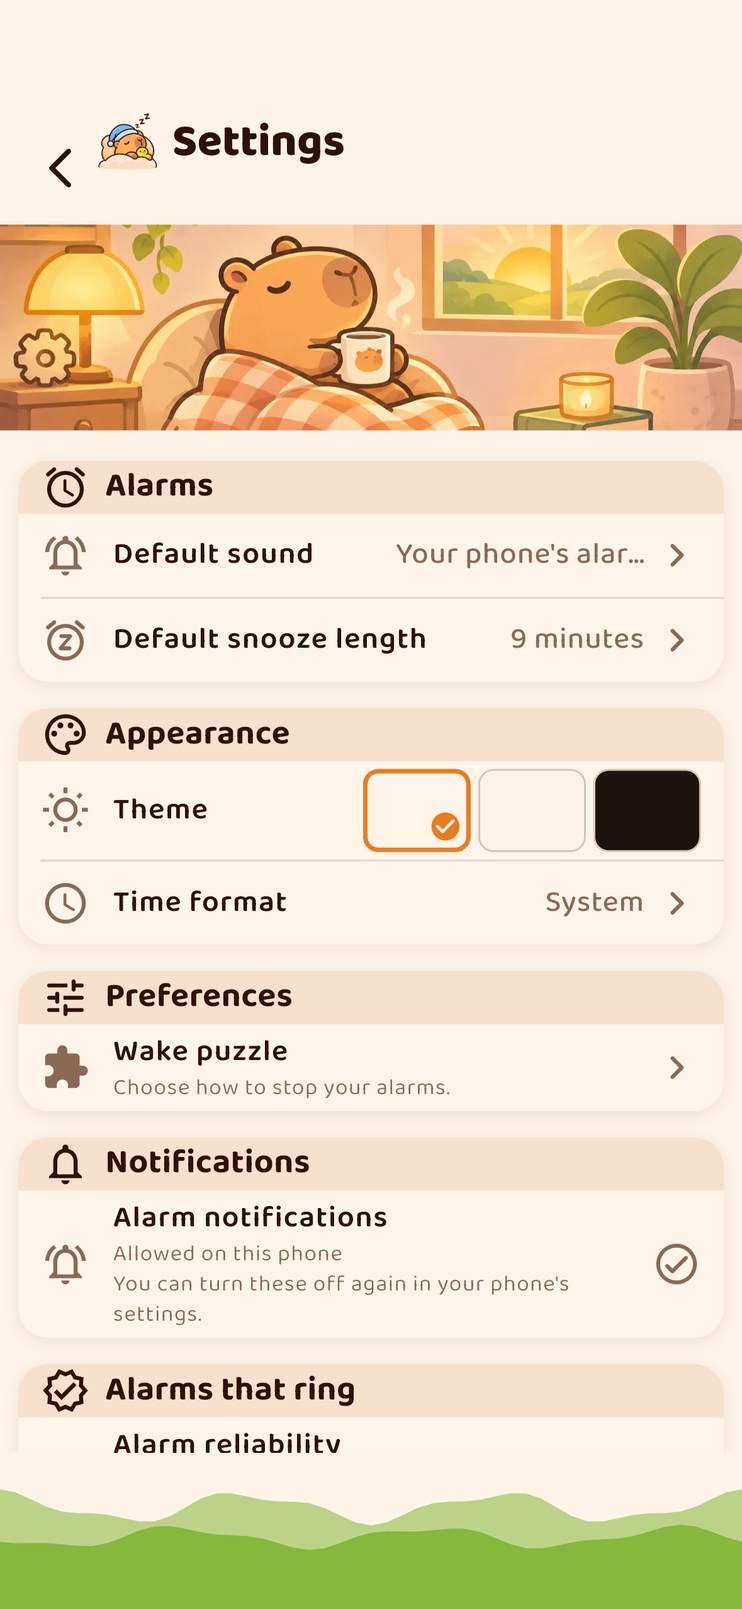
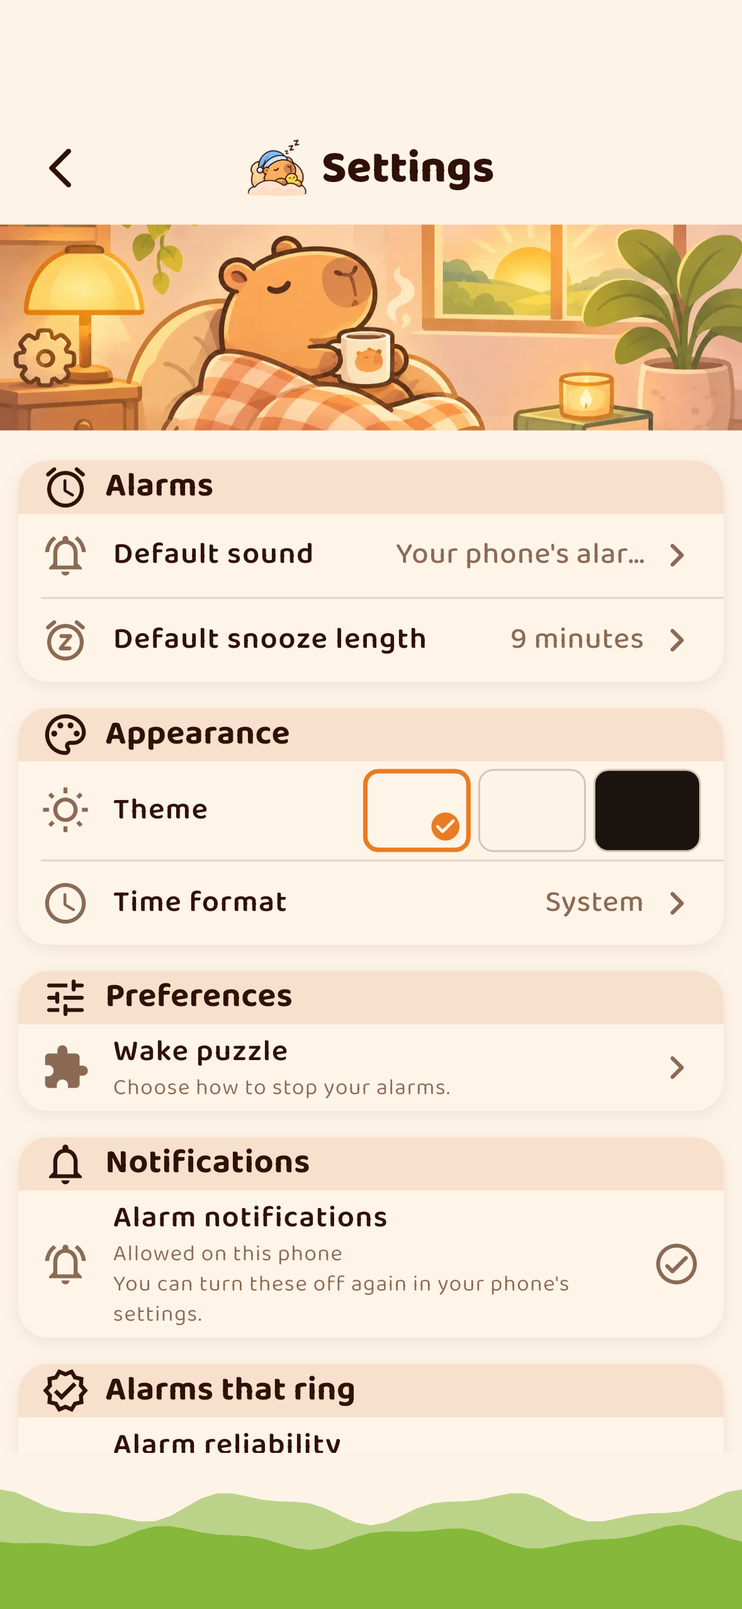
fix: phase 12 - catch sends Capy clear, no first-run flicker, centred header
A catch now lands the capybara two or more steps from where it was caught.
Run frames swap inside one Image element with gaplessPlayback and the game
art is pre-cached, so frames no longer flash blank while decoding. The
pushed-route header centres its title on the back button's line.

Changed region(s): [[0.2443, 0.0618, 0.6718, 0.1236], [0.1221, 0.0618, 0.2137, 0.1236]]

diff --git a/lib/features/settings/settings_header.dart b/lib/features/settings/settings_header.dart
@@ -26,40 +26,42 @@ class SettingsHeader extends StatelessWidget {
         height: height,
         child: Stack(
           children: [
-            // Inset past the back control on both sides, so a long title in
-            // any of the ten locales stays centred and never overlaps it.
+            // Centred on the back control's line, inset past it on both sides
+            // so a long title in any locale never overlaps it.
             Padding(
               padding: const EdgeInsetsDirectional.symmetric(
                 horizontal: CapyToggle.minTapTarget + CapySpacing.sm,
               ),
-              child: Row(
-                mainAxisSize: MainAxisSize.min,
-                mainAxisAlignment: MainAxisAlignment.center,
-                children: [
-                  ExcludeSemantics(
-                    child: Image.asset(
-                      CapyArt.byId('mascot.sleeping').path,
-                      height: CapyIconSize.wordmark,
-                      fit: BoxFit.contain,
+              child: Center(
+                child: Row(
+                  mainAxisSize: MainAxisSize.min,
+                  mainAxisAlignment: MainAxisAlignment.center,
+                  children: [
+                    ExcludeSemantics(
+                      child: Image.asset(
+                        CapyArt.byId('mascot.sleeping').path,
+                        height: CapyIconSize.wordmark,
+                        fit: BoxFit.contain,
+                      ),
                     ),
-                  ),
-                  const SizedBox(width: CapySpacing.sm),
-                  Flexible(
-                    child: Semantics(
-                      header: true,
-                      child: Text(
-                        title,
-                        maxLines: 1,
-                        overflow: TextOverflow.fade,
-                        softWrap: false,
-                        style: theme.textTheme.headlineSmall?.copyWith(
-                          color: ink,
-                          fontWeight: FontWeight.w800,
+                    const SizedBox(width: CapySpacing.sm),
+                    Flexible(
+                      child: Semantics(
+                        header: true,
+                        child: Text(
+                          title,
+                          maxLines: 1,
+                          overflow: TextOverflow.fade,
+                          softWrap: false,
+                          style: theme.textTheme.headlineSmall?.copyWith(
+                            color: ink,
+                            fontWeight: FontWeight.w800,
+                          ),
                         ),
                       ),
                     ),
-                  ),
-                ],
+                  ],
+                ),
               ),
             ),
             PositionedDirectional(

diff --git a/lib/core/games/catch_the_capy.dart b/lib/core/games/catch_the_capy.dart
@@ -64,17 +64,16 @@ class CatchTheCapyRound {
     struggleCount: misses,
   );
 
-  /// The capybara is caught and moves to a different spot. A no-op once the
-  /// goal is reached, so a double tap cannot count twice.
+  /// Caught: it counts, and the capybara bolts clear of the catch. A no-op
+  /// once complete, so a double tap cannot count twice.
   CatchTheCapyRound catchCapy() {
     if (isComplete) return this;
-    final draw = math.Random(_seed).nextInt(spotCount - 1);
     return CatchTheCapyRound._(
       PuzzleRound.advanceSeed(_seed),
       target: target,
       caught: caught + 1,
       misses: misses,
-      spot: draw >= spot ? draw + 1 : draw,
+      spot: _spotAwayFrom(column, row),
     );
   }
 
@@ -91,10 +90,24 @@ class CatchTheCapyRound {
     );
   }
 
-  /// The capybara bolts from a tap at ([column], [row]) to one of the spots
-  /// farthest from it; ties are broken by the seed.
+  /// The capybara bolts from a missed tap at ([column], [row]) to a spot
+  /// farthest from it.
   CatchTheCapyRound fleeFrom({required int column, required int row}) {
     if (isComplete) return this;
+    return CatchTheCapyRound._(
+      PuzzleRound.advanceSeed(_seed),
+      target: target,
+      caught: caught,
+      misses: misses,
+      spot: _spotAwayFrom(column, row, farthestOnly: true),
+    );
+  }
+
+  /// Squared distance a landing spot keeps from the danger: two steps, or the
+  /// farthest there is when nothing is that far (from the centre).
+  static const _clearDistance = 4;
+
+  int _spotAwayFrom(int column, int row, {bool farthestOnly = false}) {
     int distance(int s) {
       final dc = s % columns - column;
       final dr = s ~/ columns - row;
@@ -106,17 +119,12 @@ class CatchTheCapyRound {
         if (s != spot) s,
     ];
     final farthest = candidates.map(distance).reduce(math.max);
-    final best = [
+    final floor = farthestOnly ? farthest : math.min(_clearDistance, farthest);
+    final clear = [
       for (final s in candidates)
-        if (distance(s) == farthest) s,
+        if (distance(s) >= floor) s,
     ];
-    return CatchTheCapyRound._(
-      PuzzleRound.advanceSeed(_seed),
-      target: target,
-      caught: caught,
-      misses: misses,
-      spot: best[math.Random(_seed).nextInt(best.length)],
-    );
+    return clear[math.Random(_seed).nextInt(clear.length)];
   }
 
   CatchTheCapyRound miss() {

diff --git a/test/features/settings/settings_header_test.dart b/test/features/settings/settings_header_test.dart
@@ -1,0 +1,62 @@
+import 'package:capywake/features/settings/settings_header.dart';
+import 'package:capywake/l10n/generated/app_localizations.dart';
+import 'package:flutter/material.dart';
+import 'package:flutter_test/flutter_test.dart';
+
+Future<void> _pump(WidgetTester tester, String title, {Locale? locale}) async {
+  tester.view.physicalSize = const Size(393, 852) * 3;
+  tester.view.devicePixelRatio = 3;
+  addTearDown(tester.view.reset);
+  await tester.pumpWidget(
+    MaterialApp(
+      locale: locale,
+      localizationsDelegates: AppLocalizations.localizationsDelegates,
+      supportedLocales: AppLocalizations.supportedLocales,
+      home: Scaffold(
+        body: Navigator(
+          onGenerateRoute: (_) => MaterialPageRoute<void>(
+            builder: (_) => Scaffold(body: SettingsHeader(title: title)),
+          ),
+        ),
+      ),
+    ),
+  );
+  await tester.pumpAndSettle();
+}
+
+Rect _row(WidgetTester tester) => tester.getRect(
+  find.descendant(of: find.byType(SettingsHeader), matching: find.byType(Row)),
+);
+
+Rect _back(WidgetTester tester) => tester.getRect(
+  find.descendant(
+    of: find.byType(SettingsHeader),
+    matching: find.byType(Icon),
+  ),
+);
+
+void main() {
+  testWidgets('the title is centred across the screen', (tester) async {
+    await _pump(tester, 'Catch the Capy');
+    expect(_row(tester).center.dx, closeTo(393 / 2, 0.5));
+  });
+
+  testWidgets("the title sits on the back control's line", (tester) async {
+    await _pump(tester, 'Catch the Capy');
+    expect(_row(tester).center.dy, closeTo(_back(tester).center.dy, 0.5));
+  });
+
+  testWidgets('a long title never runs under the back control', (
+    tester,
+  ) async {
+    await _pump(tester, 'Erinnerung an das Zuverlässigkeitsprotokoll');
+    expect(_row(tester).left, greaterThan(_back(tester).right));
+    expect(tester.takeException(), isNull);
+  });
+
+  testWidgets('in RTL the title stays centred and clear', (tester) async {
+    await _pump(tester, 'إعدادات', locale: const Locale('ar'));
+    expect(_row(tester).center.dx, closeTo(393 / 2, 0.5));
+    expect(_row(tester).right, lessThan(_back(tester).left));
+  });
+}

diff --git a/test/features/games/catch_the_capy_view_test.dart b/test/features/games/catch_the_capy_view_test.dart
@@ -338,7 +338,12 @@ void main() {
     expect((after - tap.dx).abs(), greaterThan(field.width / 2));
   });
 
-  Finder frame(int i) => find.byKey(ValueKey('catch-the-capy-frame-$i'));
+  Finder frame(int i) => find.byWidgetPredicate(
+    (w) =>
+        w is Image &&
+        w.image is AssetImage &&
+        (w.image as AssetImage).assetName == CapyArt.runFrames[i].path,
+  );
 
   testWidgets('the legs run through the whole cycle during a run', (
     tester,
@@ -424,6 +429,44 @@ void main() {
       expect(rect.left, greaterThanOrEqualTo(field.left - 0.5));
       expect(rect.right, lessThanOrEqualTo(field.right + 0.5));
       await tester.pumpAndSettle();
+    }
+  });
+
+  testWidgets('frames swap inside one Image, held while the next decodes', (
+    tester,
+  ) async {
+    await _pump(tester);
+    final before = tester.element(frame(0));
+    await tester.tap(_target);
+    await tester.pump();
+    await tester.pump(CatchTheCapyRound.runFor(PuzzleDifficulty.easy) ~/ 5);
+
+    final image = find.descendant(of: _target, matching: find.byType(Image));
+    expect(image, findsOneWidget);
+    expect(tester.widget<Image>(image).gaplessPlayback, isTrue);
+    expect(tester.element(image), isNot(before), reason: 'a new run, new key');
+    final during = tester.element(image);
+    await tester.pump(CatchTheCapyRound.runFor(PuzzleDifficulty.easy) ~/ 5);
+    expect(
+      tester.element(image),
+      same(during),
+      reason: 'a frame change must not rebuild the Image element',
+    );
+  });
+
+  testWidgets('a catch carries the capybara clear of where it was caught', (
+    tester,
+  ) async {
+    await _pump(tester, difficulty: PuzzleDifficulty.hard);
+    for (var i = 0; i < 5; i++) {
+      final caughtAt = tester.getCenter(_target);
+      await tester.tap(_target);
+      await tester.pumpAndSettle();
+      final now = tester.getCenter(_target);
+      expect(
+        (now - caughtAt).distance,
+        greaterThan(CatchTheCapyView.capyWidth),
+      );
     }
   });
 }

diff --git a/lib/features/games/catch_the_capy_view.dart b/lib/features/games/catch_the_capy_view.dart
@@ -74,9 +74,22 @@ class _CatchTheCapyViewState extends State<CatchTheCapyView> {
   bool get _moves =>
       !widget.reduceMotion && !MediaQuery.accessibleNavigationOf(context);
 
+  bool _precached = false;
+
   @override
   void didChangeDependencies() {
     super.didChangeDependencies();
+    if (!_precached) {
+      _precached = true;
+      for (final asset in [
+        ...CapyArt.runFrames,
+        ...CapyArt.dustFrames,
+        CapyArt.byId('game.paw'),
+        CapyArt.byId('game.meadow'),
+      ]) {
+        unawaited(precacheImage(AssetImage(asset.path), context));
+      }
+    }
     _scheduleWander();
   }
 
@@ -285,9 +298,10 @@ class _Runner extends StatelessWidget {
     );
   }
 
+  // One Image element across frames, so `gaplessPlayback` holds the last
+  // frame while the next decodes instead of flashing blank.
   Widget _frame(int index) => Image.asset(
     CapyArt.runFrames[index].path,
-    key: ValueKey('catch-the-capy-frame-$index'),
     fit: BoxFit.contain,
     alignment: Alignment.bottomCenter,
     gaplessPlayback: true,

diff --git a/test/core/games/catch_the_capy_test.dart b/test/core/games/catch_the_capy_test.dart
@@ -115,4 +115,27 @@ void main() {
       const Duration(seconds: 1),
     );
   });
+
+  test('once caught it lands clear of where it was caught', () {
+    for (var seed = 0; seed < 300; seed++) {
+      final round = _start(seed: seed, difficulty: PuzzleDifficulty.hard);
+      final next = round.catchCapy();
+      final dc = next.column - round.column;
+      final dr = next.row - round.row;
+      final fromCentre = round.column == 1 && round.row == 1;
+      expect(
+        dc * dc + dr * dr,
+        greaterThanOrEqualTo(fromCentre ? 2 : 4),
+        reason: 'seed $seed: ${round.spot} -> ${next.spot}',
+      );
+    }
+  });
+
+  test('where it lands after a catch still varies', () {
+    final landings = {
+      for (var seed = 0; seed < 300; seed++)
+        _start(seed: seed).catchCapy().spot,
+    };
+    expect(landings.length, greaterThan(4));
+  });
 }

diff --git a/ai-orchestration/PHASE_TRACKER.md b/ai-orchestration/PHASE_TRACKER.md
@@ -121,7 +121,7 @@ Per-phase commit `feat: complete phase <id> - <name>`, then
 | 09 | Onboarding | done | `docs/phases/PHASE_09_PLAN.md` | `74496a0` | 2026-11-17 | **The phase whose name promised a permission flow that was already built, and whose one real defect no test could see.** "Just-in-time permissions" was shipped in **Phase 07** — the prompt fires at first alarm enable, confirmed on device this phase. The legacy onboarding (`../capywake`, read-only) asks for **no** permission: it is a three-step preferences flow (welcome → puzzle → strictness) that writes `hasCompletedOnboarding`. What was actually missing: **`OnboardingStatus.needsOnboarding` was ported and tested but wired to nothing, and `hasCompletedOnboarding` had no writer in `lib/`** — a fresh install opened on an empty Home with no greeting. This phase added the `/onboarding` route (outside the shell), a push-only redirect, the welcome, and `completeOnboarding()`. **There is NO onboarding mockup**: the five primary screens contain none, and the `screens/alternative/onboarding_*` files are two exploratory boards (re-handed under five names) at 887×1774/852×1846 device-bezel geometry drawing the rejected 4-tab/Games nav — superseded. **Tier A binds nothing**; held to tokens, the tap floor, RTL, large-text reflow and no-overpromise (`docs/visual/_evidence/onboarding_boards.md`, `docs/visual/onboarding/`). **The central finding (SR1 H1): the CTA bounced to Home on the iPhone 18 Pro while every test passed.** The redirect had a pull branch (`atOnboarding && !needed → Home`); `completeOnboarding()` fired the `refreshListenable` mid-tap and the pull beat the CTA's own `go(/alarms/new)` — the fake async clock in widget tests ordered them the other way, so the buggy redirect passed all tests. Fixed to push-only; **pinned by a new test that fails against the buggy version** (Phase 05's rule + Phase 06's, together). Re-confirmed on device: CTA → Add Alarm → Save → the existing prompt, with honest degrade copy. **SR2 found an error-state crash** on the hot path (`alarms.requireValue` would throw if the alarms stream errored) — the provider now yields a value only when both streams have data. **Sleep-boundary still NOT discharged** — no `package:health`, stated explicitly; now unbuilt across 07, 08 and 09. Full-project also found the ported `OnboardingStatus` dartdoc describes a grandfathering path that **cannot occur** in a no-users greenfield rebuild (the `?? true` mapper branch is unreachable; `toJson` always writes the key), and that the baseline's `grep "Phase [0-9]" lib/ = 0` is scoped to hand-written Dart (bare it is 2 — a pre-existing ARB description). **1,513 tests** (+20 against a registered +18–28), analyze clean incl. infos, lib 97.84% / core 99.61% / data 88.95% / **`lib/features/onboarding` 100.00%**, **438 ARB keys × 10 locales** (+1, as registered). Comment baseline **+0** (113). 21 findings across four passes, all applied, none deferred |
 | 10 | Puzzle chooser and the ten existing puzzle types | done | `docs/phases/PHASE_10_PLAN.md` | `b916607` | 2026-11-17 | **The phase that wired settings persisted since Phase 02 but written by no UI — every alarm used `PuzzleSettings.defaults()` forever.** Three surfaces, owner-confirmed: the chooser (pushed from Settings → Preferences), the two onboarding steps (welcome became a 3-step flow), and the per-alarm Tap/Puzzle dismiss section. **The owner supplied mockups mid-phase** (`CapyWake_Puzzle_Chooser_Onboarding_Handoff`) — but they are 378×1161-class storyboard crops, not 851×1847 native geometry, so **Tier A binds nothing** (measured, the handoff README says so), as Phases 06/09. **Three domain conflicts the art carried, domain won each:** escape strictness is 2-value (`confirm`/`confirmAndHold`, no "off") not the mockup's 3-with-"Never" — rendering "Never" would imply a lockout the safety rule forbids (owner: keep domain, honest labels); "After 1 min" split back into escape + the separate tolerance field; six sample cards → ten real types, "Shake" dropped (not a `DismissMethod`). **The ARB estimate round-tripped the restate discipline both ways:** plan said "possibly zero", pre-review H1 corrected to +10–14, measurement settled at **+2** — nearly the whole vocabulary (chooser, onboarding, per-alarm) was already ported in 10 locales. **SR1 H1: the dismiss segment misrepresented a `holdToDismiss` alarm** — showed Tap selected while storing Hold (latent; no UI creates Hold today, but the enum, mapper and summary all carry it); now names an unrepresentable method read-only, pinned by a seeded test. **SR2 H1: the onboarding completion path swallowed a write failure**, stranding the user on a dead button with the ported `onboardingSaveError` unused — Phase 09's SR2 one layer over (write side); now wrapped, holds position, shows the error, pinned by a throwing-repo test. **Full-project: three playable-practice onboarding strings stay unused on purpose** (a playable demo is a games-phase concern) — stated outright, Phase 09's ambiguity lesson applied. **Device-verified on the iPhone 18 Pro (Phase 09's rule): the stepped onboarding CTA lands on Add Alarm, not Home — the redirect race does NOT recur.** **1,547 tests** (+34 against a registered +45–75 — restated: the puzzle domain was already fully tested), analyze clean incl. infos, lib 97.93% / core 99.61% / data 88.95% / features/puzzle 99.30% / features/onboarding 100%, **440 ARB keys** (+2). Comment baseline **+0** (113); 9 new files, all trimmed by hand. 15 findings across four passes, all applied, none deferred |
 | 11 | Game foundation | done | `docs/phases/PHASE_11_PLAN.md` | `4d9750b` | 2026-11-17 | **What a "game" is — the contract the ten games (12-17) slot into, built with no specific game and no new visible surface.** The one design call, settled in the plan: **a game is not a fourth `DismissMethod`** (that would bump the Drift mapper and ripple through 1,547 tests for a product that does not exist) — it is a puzzle-parallel challenge surface in the same `RingingScreen.puzzleSlot`. `GameChallenge` (`lib/core/games/`, pure Dart): goal in steps, `isComplete`, `struggleCount`, `escapeVisibilityFor` reusing the **enum** `PuzzleEscapeVisibility` but **not** `PuzzleEasingState`'s wrong-answer arithmetic — a game has no "wrong answer", it has missed taps (pre-review H1). The widget contract (`game_ringing_view.dart`): `onProgress`/`onCompleted`, `reduceMotion` threaded from `MediaQuery.disableAnimations` via `GameRingingSlot`; **the escape stays owned by `RingingScreen` — a game has no seam to hide or gate it** (H2), proven by a test-only conformer mounted in the real screen whose escape is reachable regardless of game state. **The foundation stayed headless** (H3): no onboarding demo, no new route — "Do not implement future phases"; the three unused onboarding strings stay unused for a games phase. **Motion fallback is call-site-required** (H4) and **SR1 closed the hole: a motion game's fallback could itself require motion** — now asserted `!fallback.requiresMotion`, so a motion game with no *usable* non-motion path cannot be built (the a11y rule, for Phase 15's two motion games). SR1 also bounded the goal (`target > 0`, else the alarm dismisses with zero play). **SR2: the escape policy source was implicit** — a test now proves a game and a puzzle offer the escape identically against the user's `toleratedWrongAnswers`, so a Phase 12 game that diverges fails; plus a mutation check (suppress completion → dismiss test fails, not a guard on trust). `GameCatalogue` grew **4 → 10** (zero `playable`) with an explicit **`homeRail` subset of four** so Home does not regress to ten tiles (pre-review M2/M3); **ARB +6** game name keys (restated in the pre-review from the plan's +0 — the catalogue needs them, the demo surface does not), six tile gaps **G23-G28**. **Full-project: the pre-review's own L1 was wrong** — it called Home's "See All" games action a dangling control with "no destination"; `PHASE_03_PLAN.md:202` records it as deliberate (See All → the Stats Games segment, both tabs), still coherent at ten games. Corrected, no change. **Tier A binds nothing** — the game posters are bezel-wrapped storyboards, not native geometry (as 06/09/10). **Device-verified on the iPhone 18 Pro: Home draws exactly the four tiles, not the ten; tapping Step Quest shows the blocked/step-count sheet.** **1,572 tests** (+25 against a registered +18-30), analyze clean incl. infos, lib 97.95% / core 99.61% / `lib/core/games` 100% / data 88.95% / `lib/features/ringing` 98.53%, **446 ARB keys × 10 locales** (+6). Comment baseline **113 (+0)**; 3 new files, all trimmed by hand. 18 findings across four passes (13 pre + 3 SR1 + 2 SR2), all applied, none deferred |
-| 12 | Touch games I — Catch the Capy, Memory Hideout | done | `docs/phases/PHASE_12_PLAN.md` | `8743847` | 2026-11-17 | **The first two real games, and the selection model Phase 11 left open — settled by the owner in session: games join the Puzzle dismissal (no `DismissMethod`, no schema bump), the rotation is the default, an alarm may carry its own pool (a specific game or a subset), Home tiles launch practice.** `PuzzleSettings`/`AlarmPuzzleOverride` gained `enabledGames` + `includePuzzles` in the existing JSON; `includePuzzles` (not an empty `enabledTypes`) keeps the ported never-empty invariant intact for `PuzzleRound` at 03:00. `WakeChallengeSelector` picks one challenge per ring, uniform and seeded, falling back to puzzles on an empty launchable pool; **both mappers restore puzzles when unknown ids empty the pool on read** (pre-review H5), and `resolveFor` never yields an empty pool on the ring path. `GameRegistry` == catalogue-playable, pinned. Both games static (no tween, no timer); the escape rises against the **alarm's resolved** tolerance (H6, proven with an override ≠ default). **SR1 H1: the games had no card and would have drawn dark text on the scrimmed hero** — green in every view test. **SR2 on device: Memory Hideout kept the answer on screen while guessing, and Ready jumped ~30 pt under the finger.** **Full-project H1: Settings had painted "Default snooze leng9 minutes" since Phase 07 — it is in that phase's own capture**; guard fails 10/10 on the old row. **H2: es/fr/it/ar translated "puzzle" as "game"** — 73 strings retranslated, per-locale guard (19 offenders in old es). Tier A binds nothing new; Home (worst 1.4) and Settings re-captured unchanged. Asset gaps G23, G29–G32 reported in session, then closed by owner art. **Then made dynamic at the owner's direction mid-phase**: Catch the Capy runs non-stop, faces its direction, bolts from missed taps, runs faster on harder settings (1300/1000/750 ms), over the package's decor; Memory Hideout became a shell game (1/2/3 swaps). Motion stops under reduce-motion or a screen reader; `CLAUDE.md`'s animation rule narrowed to the ringing chrome. **The owner then supplied the art G29–G32 asked for** — an 8-frame nightcap gallop (aligned on nose + foot baseline, loop seam 9 %), dust, paw prints, meadow, plain bush, tile (wrong variant: baked frame, cut inside it) — all through the audited pipeline, run frames lossy-colour/lossless-alpha to stay in budget. **1,759 tests** (+187), analyze clean incl. infos, lib 98.20% / core 99.67% / `lib/core/games` + `lib/features/games` 100% / data 89.17% / ringing 98.62%, **466 ARB keys × 10** (+21 −1; estimate +12–16 restated). Comment baseline 113 (+0). 33 findings across four passes, 31 applied, 2 invalid with reasons |
+| 12 | Touch games I — Catch the Capy, Memory Hideout | done | `docs/phases/PHASE_12_PLAN.md` | `8743847` | 2026-11-17 | **The first two real games, and the selection model Phase 11 left open — settled by the owner in session: games join the Puzzle dismissal (no `DismissMethod`, no schema bump), the rotation is the default, an alarm may carry its own pool (a specific game or a subset), Home tiles launch practice.** `PuzzleSettings`/`AlarmPuzzleOverride` gained `enabledGames` + `includePuzzles` in the existing JSON; `includePuzzles` (not an empty `enabledTypes`) keeps the ported never-empty invariant intact for `PuzzleRound` at 03:00. `WakeChallengeSelector` picks one challenge per ring, uniform and seeded, falling back to puzzles on an empty launchable pool; **both mappers restore puzzles when unknown ids empty the pool on read** (pre-review H5), and `resolveFor` never yields an empty pool on the ring path. `GameRegistry` == catalogue-playable, pinned. Both games static (no tween, no timer); the escape rises against the **alarm's resolved** tolerance (H6, proven with an override ≠ default). **SR1 H1: the games had no card and would have drawn dark text on the scrimmed hero** — green in every view test. **SR2 on device: Memory Hideout kept the answer on screen while guessing, and Ready jumped ~30 pt under the finger.** **Full-project H1: Settings had painted "Default snooze leng9 minutes" since Phase 07 — it is in that phase's own capture**; guard fails 10/10 on the old row. **H2: es/fr/it/ar translated "puzzle" as "game"** — 73 strings retranslated, per-locale guard (19 offenders in old es). Tier A binds nothing new; Home (worst 1.4) and Settings re-captured unchanged. Asset gaps G23, G29–G32 reported in session, then closed by owner art. **Then made dynamic at the owner's direction mid-phase**: Catch the Capy runs non-stop, faces its direction, bolts from missed taps, runs faster on harder settings (1300/1000/750 ms), over the package's decor; Memory Hideout became a shell game (1/2/3 swaps). Motion stops under reduce-motion or a screen reader; `CLAUDE.md`'s animation rule narrowed to the ringing chrome. **The owner then supplied the art G29–G32 asked for** — an 8-frame nightcap gallop (aligned on nose + foot baseline, loop seam 9 %), dust, paw prints, meadow, plain bush, tile (wrong variant: baked frame, cut inside it) — all through the audited pipeline, run frames lossy-colour/lossless-alpha to stay in budget. **1,767 tests** (+195), analyze clean incl. infos, lib 98.20% / core 99.67% / `lib/core/games` + `lib/features/games` 100% / data 89.17% / ringing 98.62%, **466 ARB keys × 10** (+21 −1; estimate +12–16 restated). Comment baseline 113 (+0). 33 findings across four passes, 31 applied, 2 invalid with reasons |
 | 13 | Touch games II — Rhythm Rescue, Capy Rocket | pending | | | | |
 | 14 | Authored games — Morning Sort, Find the Impostor | pending | | | | Content-bank ban lifted for these two (owner, 2026-11-15) |
 | 15 | Motion games — Shake DJ, Tilt Maze | pending | | | | a11y fallback mandatory |

diff --git a/docs/phases/PHASE_12_PLAN.md b/docs/phases/PHASE_12_PLAN.md
@@ -288,3 +288,18 @@ with its head over the top. The painted tile replaces the `moments_14`
 stand-in. Reduce-motion and screen-reader behaviour unchanged: one still frame,
 no dust, no prints, no shuffle. Import, validation and the two supply defects
 (tile frame, bush edge) are recorded in `asset_gaps.md`.
+
+## 14. Owner follow-ups (2026-11-17, in session)
+
+- **A catch sends the capybara clear of the catch:** it lands two steps or more
+  from where it was caught (from the centre, a corner), drawn at random from
+  those spots so it is not predictable. A missed tap still sends it to the spot
+  farthest from the tap.
+- **First-second flicker fixed.** Each run frame was a new `Image` element (a
+  per-frame key), so `gaplessPlayback` never applied and every frame not yet
+  decoded flashed blank. Frames now swap inside one element, and the run, dust,
+  paw and meadow images are pre-cached when the game opens. A test fails if a
+  frame change rebuilds the element.
+- **Pushed-route header:** the title now sits centred across the screen on the
+  back button's line (it was top-start). Shared by Settings, its pushed routes,
+  the chooser and practice; Settings re-captured for Tier A.

diff --git a/docs/sessions/next.md b/docs/sessions/next.md
@@ -6,7 +6,7 @@ Phases 00–12 are **done** and committed.
 
 **Current phase: `13` — Touch games II (Rhythm Rescue, Capy Rocket).**
 
-**1,759 tests** pass. `lib` 98.20%, `lib/core` 99.67%, `lib/core/games` and
+**1,767 tests** pass. `lib` 98.20%, `lib/core` 99.67%, `lib/core/games` and
 `lib/features/games` **100%**, `lib/data` 89.17%, `lib/features/ringing` 98.62%.
 **466 ARB keys × 10 locales.** Comment baseline **113**.
 

diff --git a/memory/current-phase.md b/memory/current-phase.md
@@ -2,7 +2,7 @@
 
 **Phase 12 — Touch games I: done, 2026-11-17. `Current phase: 13`.**
 
-**1,759 tests**, analyze clean including infos, lib 98.20% / `lib/core` 99.67% /
+**1,767 tests**, analyze clean including infos, lib 98.20% / `lib/core` 99.67% /
 `lib/core/games` **100%** / `lib/features/games` **100%** / `lib/data` 89.17% /
 `lib/features/ringing` 98.62%, **466 ARB keys × 10 locales**. Comment baseline 113
 (+0).

diff --git a/docs/phases/PHASE_12_POST_REVIEW.md b/docs/phases/PHASE_12_POST_REVIEW.md
@@ -30,7 +30,7 @@
 
 | | Phase 11 | Phase 12 |
 |---|---|---|
-| Tests | 1,572 | **1,759** (+187) |
+| Tests | 1,572 | **1,767** (+195) |
 | `lib` | 97.95 % | **98.20 %** |
 | `lib/core` | 99.61 % | **99.67 %** |
 | `lib/core/games` | 100 % | **100 %** |
